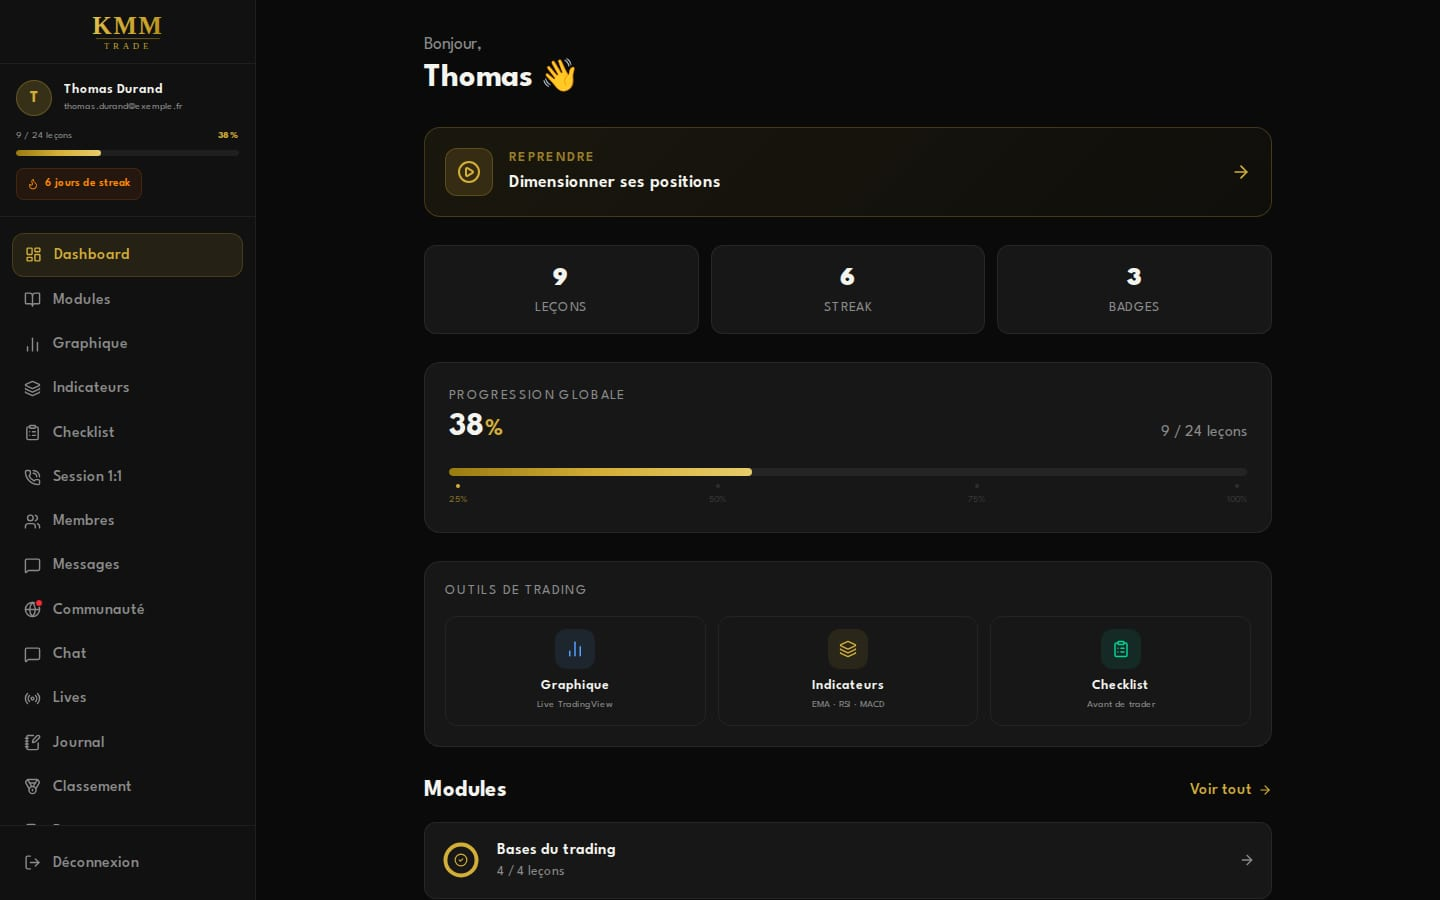
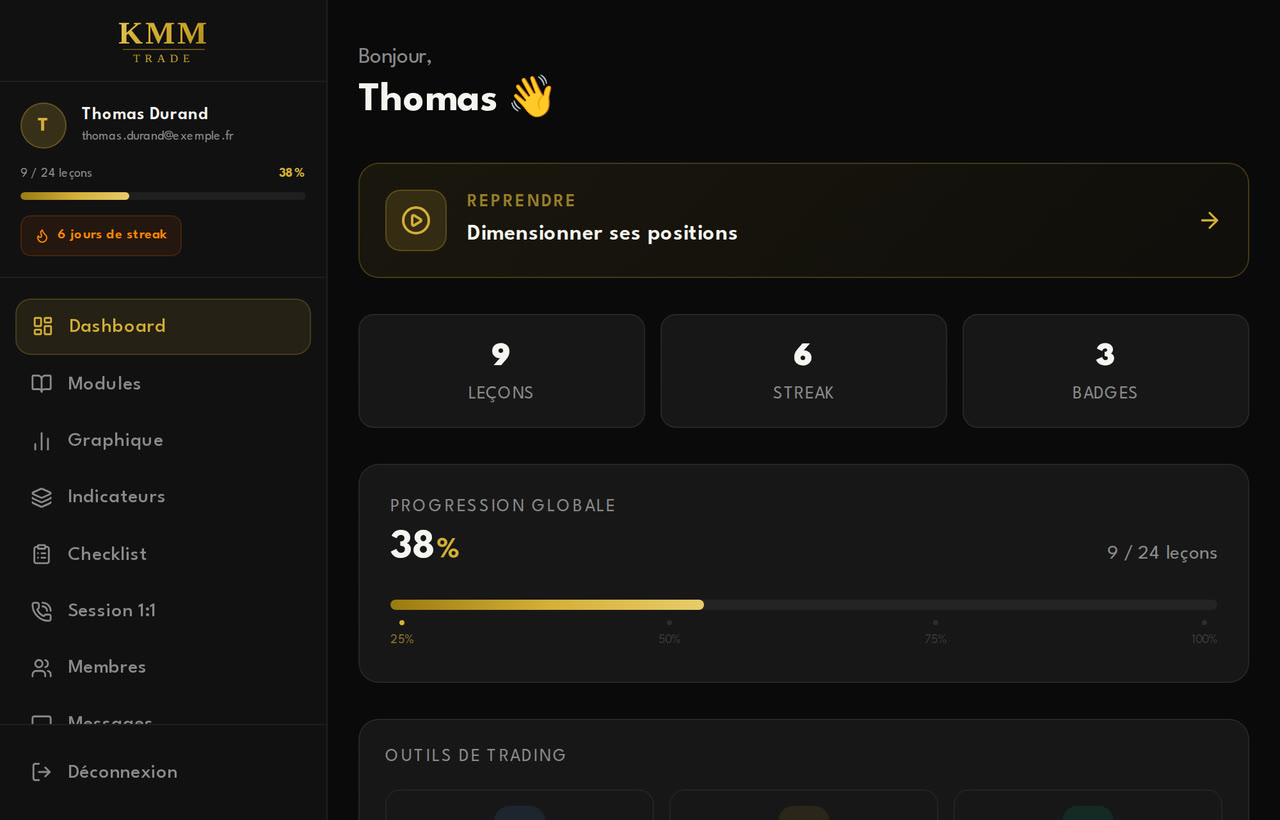
fix: capture KMM Academy lisible et plus grande sur la carte
Capture refaite en plus gros (moins de contenu, éléments plus grands)
et fenêtre agrandie : 64 % de la largeur en desktop, 70 % en mobile.

Claude-Session: https://claude.ai/code/session_01QXQqUvx2ohTWA8m73FCE9H

diff --git a/index.html b/index.html
@@ -236,9 +236,9 @@ body.ready .hero-mock-wrap{opacity:1;transform:translateY(0)}
 .work-cw .cw-b{padding:0}
 .work-cw video{width:100%;display:block;aspect-ratio:16/10;object-fit:cover;object-position:top;background:#05050c}
 .work-cw img{width:100%;display:block;aspect-ratio:16/10.5;object-fit:cover;object-position:top}
-.work-shot-duo{padding:0 0 18% 0}
-.work-cw-sub{position:absolute;right:-6%;bottom:0;width:58%;box-shadow:0 30px 70px rgba(0,0,0,.7);border-color:rgba(255,255,255,.12)}
-@media(max-width:768px){.work-cw-sub{right:0;width:62%}}
+.work-shot-duo{padding:0 0 24% 0}
+.work-cw-sub{position:absolute;right:-6%;bottom:0;width:64%;box-shadow:0 30px 70px rgba(0,0,0,.7);border-color:rgba(255,255,255,.12)}
+@media(max-width:768px){.work-cw-sub{right:0;width:70%}}
 .work-info{display:flex;flex-direction:column;align-items:flex-start;gap:.9rem}
 .work-tag{display:inline-flex;align-items:center;font-size:.62rem;color:var(--accent2);background:var(--accent-lo);border:1px solid var(--accent-md);padding:.28rem .75rem;border-radius:100px;font-weight:700;letter-spacing:.08em;text-transform:uppercase}
 .work-info h3{font-family:'Bricolage Grotesque',sans-serif;font-size:1.9rem;font-weight:800;letter-spacing:-.03em}
